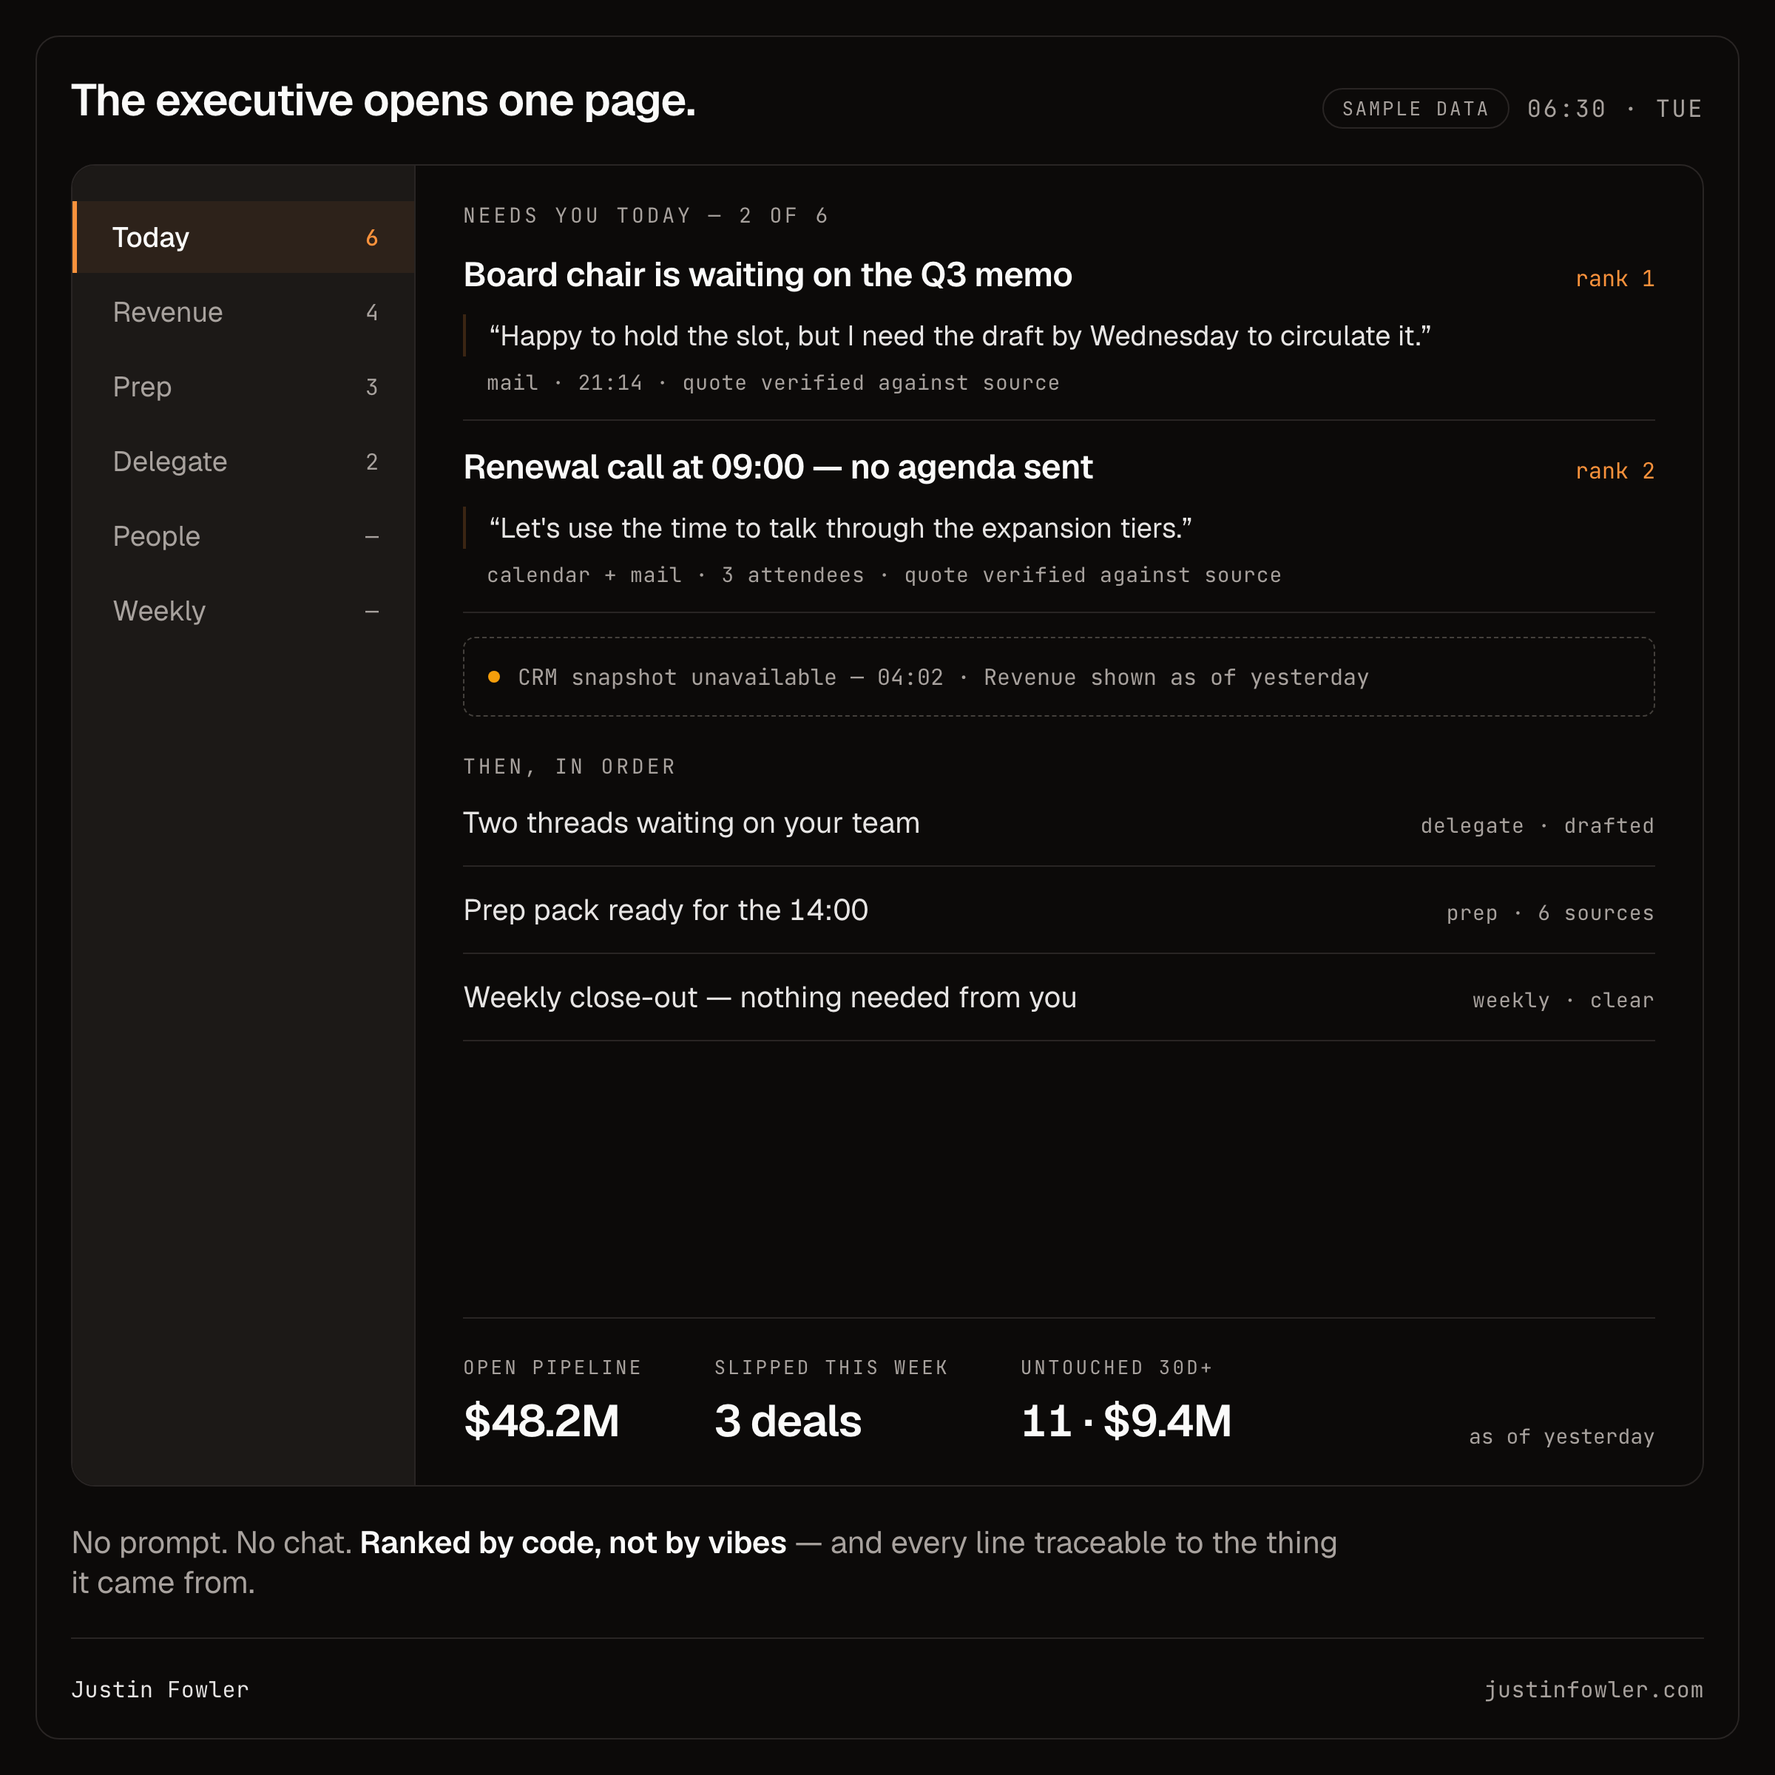
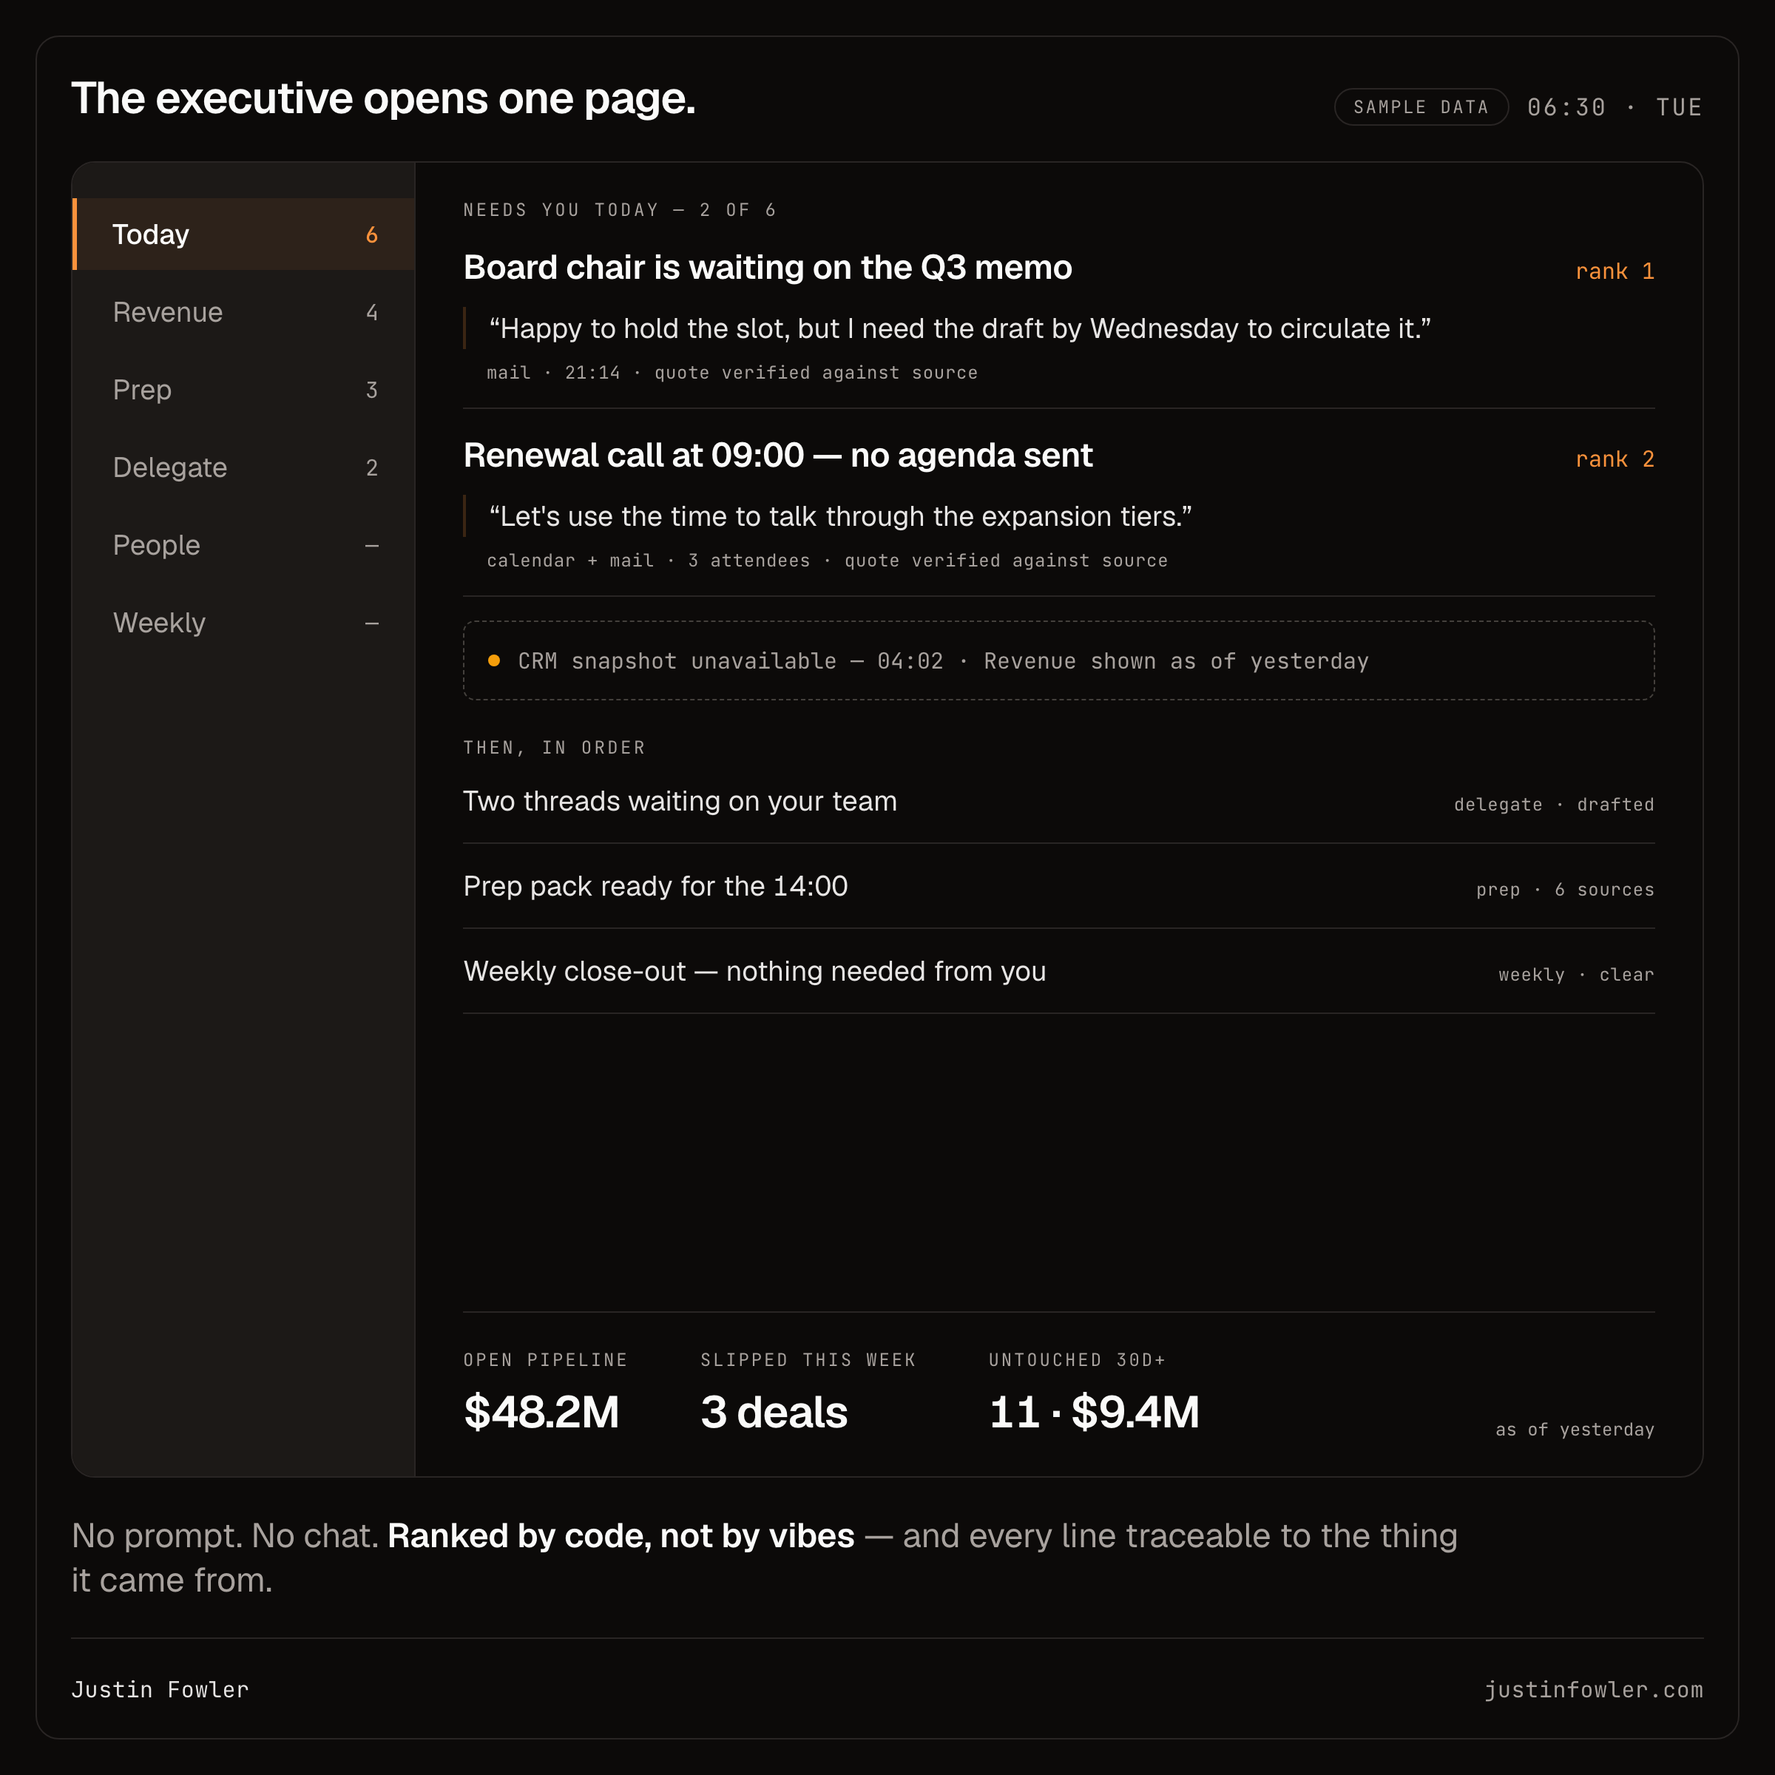
Run the shine measure loop on the LinkedIn cards and fix what it found (#5)
The previous README claimed verify/measure.mjs could not run here. Wrong —
playwright 1.62.1 is installed at ceo-morning-brief, so the loop runs with
NODE_PATH pointed there. Ran it; it found real defects the raster census
could not see:

- axe: missing landmark / no h1 on three cards -> wrapped each card in
  <main>, promoted card 2's title to <h1>. Now 0 violations on all four.
- type scale: 9 distinct sizes on cards 2 and 4 against a cap of 6 ->
  collapsed to 12/15/16/19/23/30 and 15/16/19/27/34/70.
- spacing: 2px nav gap, 6px label padding, 10px button padding and a
  margin-top:auto reading 189px -> all on the 4px scale or replaced with
  a flex spacer.

Remaining contrast FAILs (1.00-2.17:1) are box-not-glyph artifacts, shown
by getClientRects().length === 2 on the wrapped accent span and by a
colour census of the finished PNGs that contains no ink below 4.12:1.
README states both checks and the numbers.

diff --git a/assets/linkedin/exec-work-surface/src/02-surface.html b/assets/linkedin/exec-work-surface/src/02-surface.html
@@ -7,17 +7,17 @@
 <style>
   .card { padding: var(--shine-space-7); }
   .head { display: flex; align-items: baseline; justify-content: space-between; }
-  .title { font-size: 30px; font-weight: 600; letter-spacing: -0.02em; }
+  .title { font-size: 30px; line-height: 1.2; font-weight: 600; letter-spacing: -0.02em; }
   .stamp { font-family: var(--shine-font-mono); font-size: 16px; color: var(--shine-color-stone-400);
            letter-spacing: 0.08em; display: flex; align-items: center; gap: var(--shine-space-3); }
   .chip { border: 1px solid var(--shine-color-border); border-radius: var(--shine-radius-full);
-          padding: 4px 12px; font-size: 13px; letter-spacing: 0.1em; text-transform: uppercase;
+          padding: 4px 12px; font-size: 12px; letter-spacing: 0.1em; text-transform: uppercase;
           color: var(--shine-color-stone-400); }
 
   .app { flex: 1; margin-top: var(--shine-space-5); display: grid; grid-template-columns: 232px 1fr;
          border: 1px solid var(--shine-color-border); border-radius: var(--shine-radius-lg); overflow: hidden; }
   nav { background: var(--shine-color-bg-subtle); border-right: 1px solid var(--shine-color-border);
-        padding: var(--shine-space-5) 0; display: flex; flex-direction: column; gap: 2px; }
+        padding: var(--shine-space-5) 0; display: flex; flex-direction: column; gap: var(--shine-space-1); }
   nav a { display: flex; justify-content: space-between; align-items: center;
           padding: var(--shine-space-3) var(--shine-space-5); font-size: 19px;
           color: var(--shine-color-fg-muted); border-left: 3px solid transparent; text-decoration: none; }
@@ -26,15 +26,15 @@
   nav .badge { font-family: var(--shine-font-mono); font-size: 15px; color: var(--shine-color-stone-400); }
   nav a.on .badge { color: var(--shine-color-primary); }
 
-  main { padding: var(--shine-space-5) var(--shine-space-6) var(--shine-space-5);
+  .pane { padding: var(--shine-space-5) var(--shine-space-6) var(--shine-space-5);
          display: flex; flex-direction: column; }
   .sec.later { margin-top: var(--shine-space-5); }
   .row { display: flex; align-items: baseline; gap: var(--shine-space-4);
          padding: var(--shine-space-4) 0; border-bottom: 1px solid var(--shine-color-border);
-         font-size: 20px; color: var(--shine-color-stone-200); }
-  .row .tag { margin-left: auto; font-family: var(--shine-font-mono); font-size: 14px;
+         font-size: 19px; color: var(--shine-color-stone-200); }
+  .row .tag { margin-left: auto; font-family: var(--shine-font-mono); font-size: 12px;
               color: var(--shine-color-stone-400); letter-spacing: 0.03em; }
-  .sec { font-family: var(--shine-font-mono); font-size: 14px; letter-spacing: 0.14em;
+  .sec { font-family: var(--shine-font-mono); font-size: 12px; letter-spacing: 0.14em;
          text-transform: uppercase; color: var(--shine-color-stone-400); }
   .item { padding: var(--shine-space-4) 0; border-bottom: 1px solid var(--shine-color-border); }
   .item:first-of-type { padding-top: var(--shine-space-4); }
@@ -46,7 +46,7 @@
            border-left: 2px solid var(--shine-color-ember-line); font-size: 19px; line-height: 1.5;
            color: var(--shine-color-stone-200); }
   .src { margin-top: var(--shine-space-2); padding-left: var(--shine-space-4);
-         font-family: var(--shine-font-mono); font-size: 14px; color: var(--shine-color-stone-400);
+         font-family: var(--shine-font-mono); font-size: 12px; color: var(--shine-color-stone-400);
          letter-spacing: 0.03em; }
   .gap { margin-top: var(--shine-space-4); border: 1px dashed var(--shine-color-stone-700);
          border-radius: var(--shine-radius-md); padding: var(--shine-space-4);
@@ -54,24 +54,24 @@
          display: flex; align-items: center; gap: var(--shine-space-3); }
   .dot { width: 8px; height: 8px; border-radius: var(--shine-radius-full);
          background: var(--shine-color-status-warn); flex: none; }
-  .strip { margin-top: auto; padding-top: var(--shine-space-5);
+  .strip { padding-top: var(--shine-space-5);
            border-top: 1px solid var(--shine-color-border);
            display: flex; align-items: flex-end; gap: var(--shine-space-7); }
-  .strip .k { display: block; font-family: var(--shine-font-mono); font-size: 13px;
+  .strip .k { display: block; font-family: var(--shine-font-mono); font-size: 12px;
               letter-spacing: 0.12em; text-transform: uppercase; color: var(--shine-color-stone-400); }
   .strip .v { display: block; margin-top: var(--shine-space-2); font-size: 30px; font-weight: 600;
               letter-spacing: -0.02em; font-variant-numeric: tabular-nums; }
-  .strip .asof { margin-left: auto; font-family: var(--shine-font-mono); font-size: 14px;
+  .strip .asof { margin-left: auto; font-family: var(--shine-font-mono); font-size: 12px;
                  color: var(--shine-color-stone-400); }
-  .caption { margin-top: var(--shine-space-5); margin-bottom: var(--shine-space-5); max-width: 62ch; font-size: 21px; color: var(--shine-color-fg-muted);
+  .caption { margin-top: var(--shine-space-5); margin-bottom: var(--shine-space-5); max-width: 62ch; font-size: 23px; color: var(--shine-color-fg-muted);
              letter-spacing: -0.004em; }
   .caption b { color: var(--shine-color-fg); font-weight: 600; }
 </style>
 </head>
 <body>
-<div class="card">
+<main class="card">
   <div class="head">
-    <span class="title">The executive opens one page.</span>
+    <h1 class="title">The executive opens one page.</h1>
     <span class="stamp"><span class="chip">sample data</span>06:30 · TUE</span>
   </div>
 
@@ -84,7 +84,7 @@
       <a>People <span class="badge">—</span></a>
       <a>Weekly <span class="badge">—</span></a>
     </nav>
-    <main>
+    <section class="pane">
       <div class="sec">Needs you today — 2 of 6</div>
 
       <div class="item">
@@ -106,18 +106,19 @@
       <div class="row">Prep pack ready for the 14:00 <span class="tag">prep · 6 sources</span></div>
       <div class="row">Weekly close-out — nothing needed from you <span class="tag">weekly · clear</span></div>
 
+      <div class="spacer"></div>
       <div class="strip">
         <div><span class="k">Open pipeline</span><span class="v">$48.2M</span></div>
         <div><span class="k">Slipped this week</span><span class="v">3 deals</span></div>
         <div><span class="k">Untouched 30d+</span><span class="v">11 · $9.4M</span></div>
         <span class="asof">as of yesterday</span>
       </div>
-    </main>
+    </section>
   </div>
 
   <div class="caption">No prompt. No chat. <b>Ranked by code, not by vibes</b> — and every line traceable to the thing it came from.</div>
 
   <footer><span class="who">Justin Fowler</span><span>justinfowler.com</span></footer>
-</div>
+</main>
 </body>
 </html>

diff --git a/assets/linkedin/exec-work-surface/src/04-voice.html b/assets/linkedin/exec-work-surface/src/04-voice.html
@@ -9,7 +9,7 @@
   .chain { margin-top: var(--shine-space-7); display: flex; flex-direction: column; gap: var(--shine-space-4); }
   .step { border: 1px solid var(--shine-color-border); border-radius: var(--shine-radius-lg);
           padding: var(--shine-space-5); }
-  .step .lab { font-family: var(--shine-font-mono); font-size: 14px; letter-spacing: 0.14em;
+  .step .lab { font-family: var(--shine-font-mono); font-size: 15px; letter-spacing: 0.14em;
                text-transform: uppercase; color: var(--shine-color-stone-400); }
   .said { margin-top: var(--shine-space-3); font-size: 27px; line-height: 1.35;
           letter-spacing: -0.012em; }
@@ -17,14 +17,14 @@
          line-height: 1.6; color: var(--shine-color-stone-200); }
   .obj .k { color: var(--shine-color-primary); }
   .obj .p { color: var(--shine-color-stone-400); }
-  .arrow { font-family: var(--shine-font-mono); font-size: 20px; color: var(--shine-color-stone-400);
+  .arrow { font-family: var(--shine-font-mono); font-size: 19px; color: var(--shine-color-stone-400);
            text-align: center; letter-spacing: 0.3em; }
   .approve { display: flex; align-items: center; gap: var(--shine-space-4); margin-top: var(--shine-space-3); }
-  .btn { border-radius: var(--shine-radius-md); padding: 10px 24px; font-size: 20px; font-weight: 600;
+  .btn { border-radius: var(--shine-radius-md); padding: var(--shine-space-3) var(--shine-space-5); font-size: 19px; font-weight: 600;
          background: var(--shine-color-primary); color: var(--shine-color-primary-fg); }
   .btn.ghost { background: transparent; color: var(--shine-color-fg-muted);
                border: 1px solid var(--shine-color-border); font-weight: 400; }
-  .note { font-size: 21px; color: var(--shine-color-fg-muted); margin-left: auto; }
+  .note { font-size: 19px; color: var(--shine-color-fg-muted); margin-left: auto; }
   .note b { color: var(--shine-color-fg); font-weight: 600; }
   .close { font-size: 34px; font-weight: 600; letter-spacing: -0.02em; line-height: 1.3;
            padding-bottom: var(--shine-space-6); max-width: 34ch; text-wrap: balance; }
@@ -32,7 +32,7 @@
 </style>
 </head>
 <body>
-<div class="card">
+<main class="card">
   <div class="kicker"><span class="tick"></span><span class="num">04</span><span>The voice layer</span></div>
   <h1>You never navigate. <span class="accent">You talk, and the screen follows.</span></h1>
 
@@ -58,6 +58,6 @@
   <div class="spacer"></div>
   <p class="close">The words are the interface. <span class="dimmed">The guardrail is that nothing leaves the building without a human click.</span></p>
   <footer><span class="who">Justin Fowler</span><span>justinfowler.com</span></footer>
-</div>
+</main>
 </body>
 </html>

diff --git a/assets/linkedin/exec-work-surface/src/03-rules.html b/assets/linkedin/exec-work-surface/src/03-rules.html
@@ -11,14 +11,14 @@
        padding: var(--shine-space-6) 0; border-top: 1px solid var(--shine-color-border); }
   li:last-child { border-bottom: 1px solid var(--shine-color-border); }
   .n { font-family: var(--shine-font-mono); font-size: 20px; font-weight: 500;
-       color: var(--shine-color-primary); letter-spacing: 0.06em; padding-top: 6px; }
+       color: var(--shine-color-primary); letter-spacing: 0.06em; padding-top: var(--shine-space-2); }
   .t { font-size: 33px; font-weight: 600; letter-spacing: -0.018em; line-height: 1.25; }
   .d { font-size: 21px; line-height: 1.5; color: var(--shine-color-fg-muted);
        margin-top: var(--shine-space-2); max-width: 46ch; text-wrap: pretty; }
 </style>
 </head>
 <body>
-<div class="card">
+<main class="card">
   <div class="kicker"><span class="tick"></span><span class="num">03</span><span>The rules underneath</span></div>
   <h1>The model is not the interesting part.</h1>
   <ol>
@@ -41,6 +41,6 @@
   </ol>
   <div class="spacer"></div>
   <footer><span class="who">Justin Fowler</span><span>justinfowler.com</span></footer>
-</div>
+</main>
 </body>
 </html>

diff --git a/assets/linkedin/exec-work-surface/src/01-hook.html b/assets/linkedin/exec-work-surface/src/01-hook.html
@@ -11,7 +11,7 @@
 </style>
 </head>
 <body>
-<div class="card">
+<main class="card">
   <div class="kicker"><span class="tick"></span><span class="num">01</span><span>The daily work surface</span></div>
   <div class="spacer" style="flex:1"></div>
   <h1>Most AI for executives is <span class="dim">a chat box next to the work.</span></h1>
@@ -19,6 +19,6 @@
   <p class="lede">I build the other thing: a surface where the work is <span style="color:var(--shine-color-fg)">already done</span> when you open it.</p>
   <div class="spacer" style="flex:.72"></div>
   <footer><span class="who">Justin Fowler</span><span>justinfowler.com</span></footer>
-</div>
+</main>
 </body>
 </html>

diff --git a/assets/linkedin/exec-work-surface/README.md b/assets/linkedin/exec-work-surface/README.md
@@ -33,12 +33,33 @@ Then, per card:
   --virtual-time-budget=3000 --screenshot=01-hook.png "file://$PWD/01-hook.html"
 ```
 
-Playwright is not installed in `~/Projects/shine`, so `verify/measure.mjs` will not run
-here. Contrast was measured off the rendered raster instead: `sips -s format bmp`, then
-count colours over the whole image and compute WCAG ratio against the dominant
-background. Result on these four: all normal-size text at **7.83:1** or
-**15.7–18.9:1**; two colours at **4.12:1** (the 92px dim headline on card 1, the 34px
-semibold closer on card 4) which clear the 3:1 large-text floor; one **1.92:1** value
-that is the dashed border on the gap notice, not text.
+## Verification
 
-Colours come from `@shine/personal` tokens only — no raw hex anywhere in `src/`.
+The shine measure loop **does** run here — playwright 1.62.1 lives at
+`~/Projects/ceo-morning-brief/node_modules`, not in `~/Projects/shine`, so it needs
+`NODE_PATH`:
+
+```sh
+cd ~/Projects/shine && NODE_PATH=~/Projects/ceo-morning-brief/node_modules \
+  node verify/measure.mjs <path>/03-rules.html
+```
+
+Final state on all four cards: **axe 0 violations**, type scale within the 6-size cap
+(12/15/16/19/23/30 and 15/16/19/27/34/70), no off-scale computed spacing.
+
+The loop still reports contrast FAILs of 1.00–2.17:1 on wrapped display text. Those are
+box-not-glyph artifacts, confirmed two ways rather than assumed:
+
+- **Geometry.** `span.accent` on card 4 returns `getClientRects().length === 2` — it
+  wraps, so its union bounding box encloses background between the line ends and a
+  worst-case pixel pair samples bg against bg. Same shape for the nav rows on card 2,
+  where the label sits left and the badge right across a 232px box.
+- **The raster.** A colour census over the finished 2400×2400 PNGs finds only six
+  significant inks: 18.92:1, 15.73:1, 8.73:1, 7.83:1, and 4.12:1 — the last used only
+  for the 92px dim headline (card 1) and the 34px semibold closer (card 4), both above
+  the 3:1 large-text floor. No 1.00:1 ink exists in any image.
+
+The probe's `p5` column agrees with the census (4.12 / 6.93 / 7.83 / 8.73 / 14.84),
+which is the tell that `worst` is measuring the box.
+
+Colours come from `@shine/personal` tokens only — no raw hex in `src/`.
